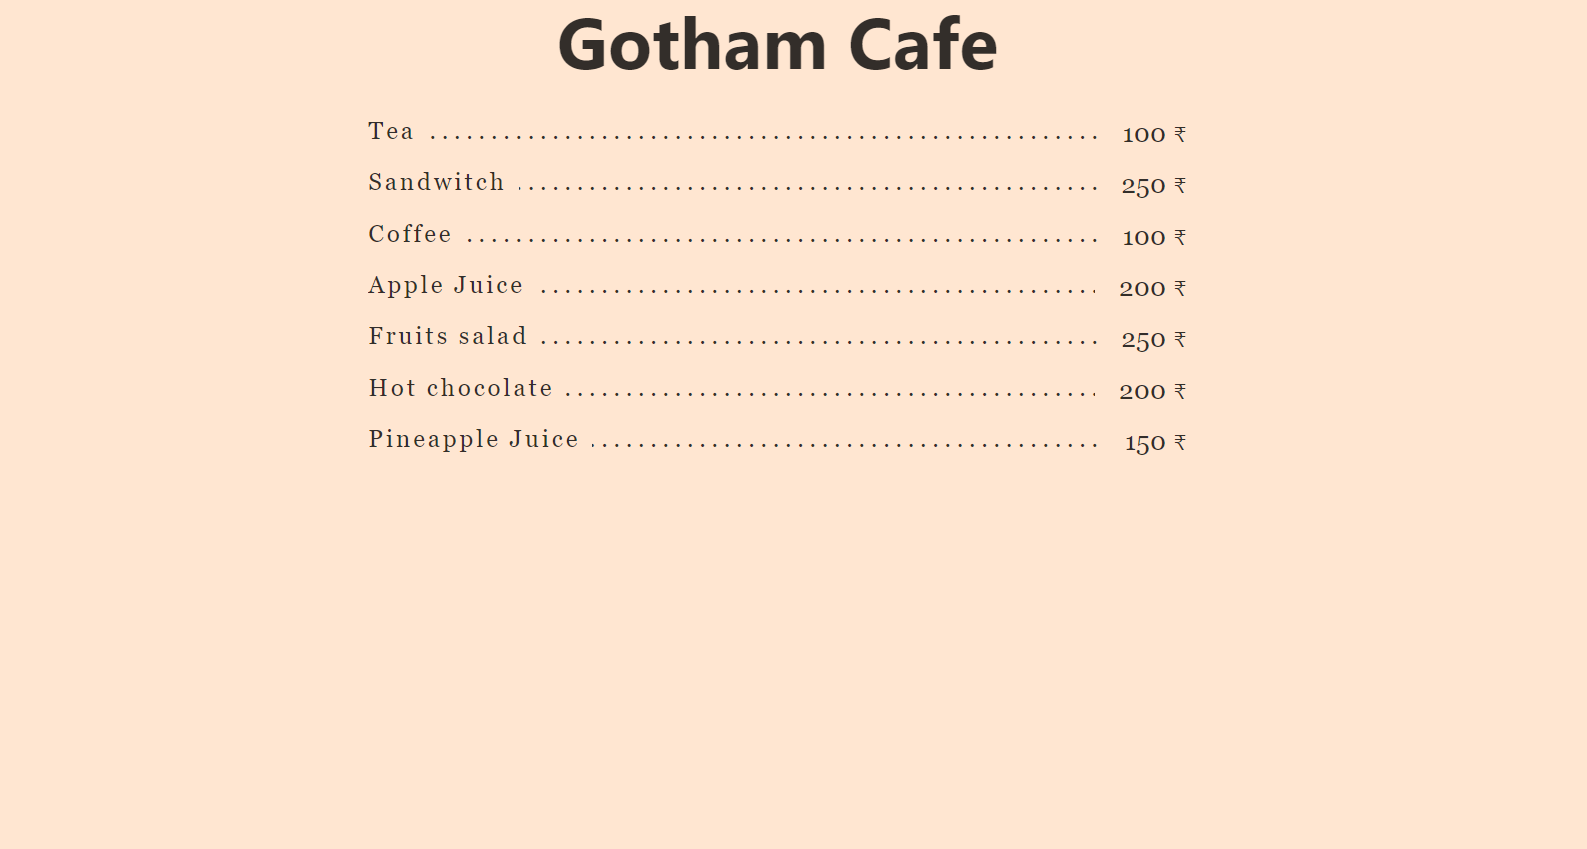
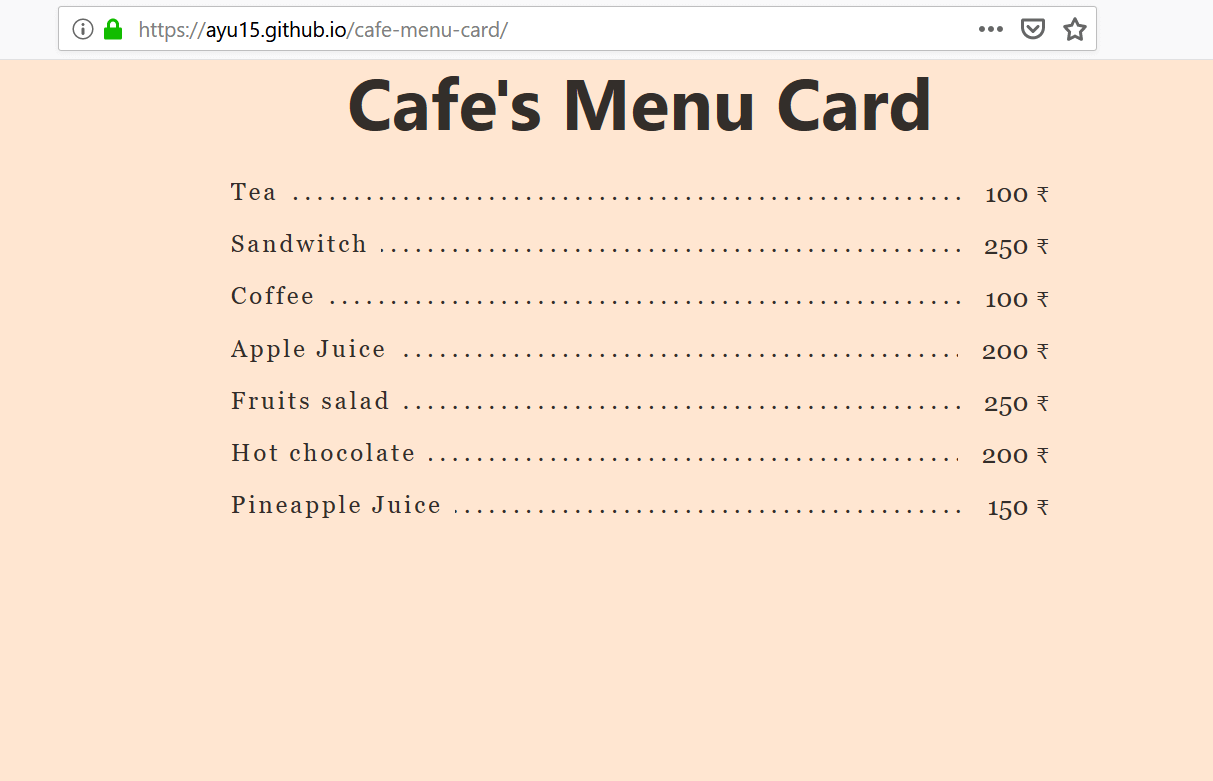
updating google sheets as db post

diff --git a/content/posts/2019-02-13-google-sheets-as-real-time-database.md b/content/posts/2019-02-13-google-sheets-as-real-time-database.md
@@ -24,7 +24,7 @@ This was just a small POC showcasing the integration of different tools.
 Here's the google sheet which has simple table of data
 ![Google Sheet's screentshot](/media/google-sheets-as-database-1.png) 
 
-And the front-end looks like this ![Cafe's Menu Card](/media/google-sheets-as-database-2.png)
+And the front-end looks like [this](https://ayu15.github.io/cafe-menu-card/) ![Cafe's Menu Card](/media/google-sheets-as-database-2.png)
 
 This removes the need of CMS and admin interfaces for tiny apps.  
 Admin can simply update data in his google sheet and it will trigger a new deployment of front-end app.  
